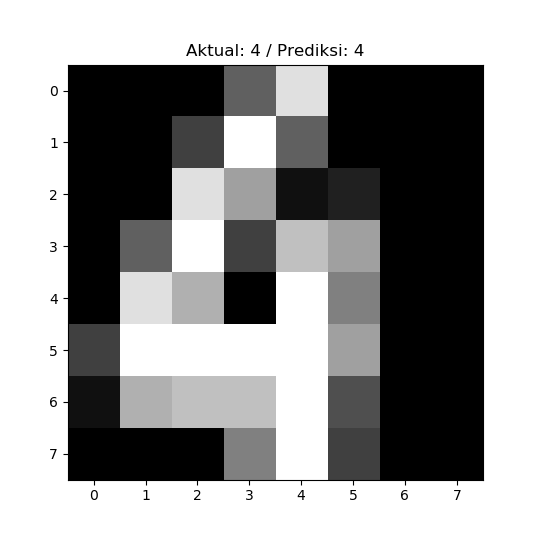
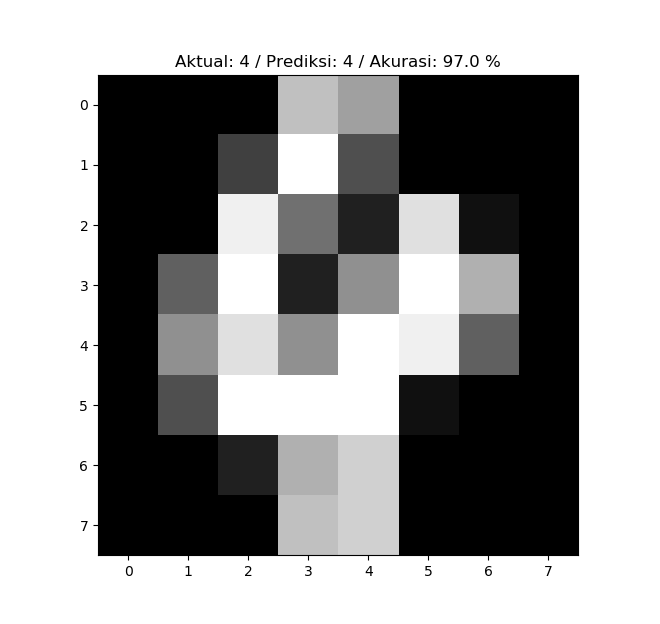
random forest

diff --git a/2_randForest_face.py b/2_randForest_face.py
@@ -24,10 +24,10 @@ xtra, xtes, ytra, ytes = train_test_split(
 # print(ytra[0])
 
 # ===============================
-# decision tree
+# random forest
 
-from sklearn.tree import DecisionTreeClassifier
-model = DecisionTreeClassifier()
+from sklearn.ensemble import RandomForestClassifier
+model = RandomForestClassifier(n_estimators=40)
 
 # train
 model.fit(xtra, ytra)
@@ -43,19 +43,12 @@ print(ytes[0])
 # ===============================
 # plot
 
-# plt.figure('Wajah', figsize=(10,4))
-# for i in range(10):
-    # person = 15       
-    # start: 0 end: 39
-    # plt.subplot(2, 5, i + 1)
-    # plt.imshow(wajah['images'][i + (10 * person)], cmap = 'gray')
-    # plt.suptitle('Wajah orang ke-{}'.format(person))
-
 plt.figure('Prediksi', figsize=(4,4))
 plt.imshow(xtes[0].reshape(64,64), cmap = 'gray')
-plt.title('Aktual: {} / Prediksi: {}'.format(
+plt.title('Aktual: {} / Prediksi: {} / Akurasi: {}'.format(
     ytes[0],
-    model.predict([xtes[0]])[0]
+    model.predict([xtes[0]])[0],
+    str(model.score(xtes, ytes) * 100) + ' %'
 ))
 
 plt.show()

diff --git a/1_randForest.py b/1_randForest.py
@@ -50,8 +50,9 @@ xplot = xtes.iloc[0].values.reshape(8,8)
 
 plt.figure('Digits', figsize=(5,5))
 plt.imshow(xplot, cmap='gray')
-plt.title('Aktual: {} / Prediksi: {}'.format(
+plt.title('Aktual: {} / Prediksi: {} / Akurasi: {}'.format(
     ytes.iloc[0],
-    modelR.predict([xtes.iloc[0]])[0]
+    modelR.predict([xtes.iloc[0]])[0],
+    str(round(modelR.score(xtes, ytes) * 100)) + ' %'
 ))
 plt.show()
